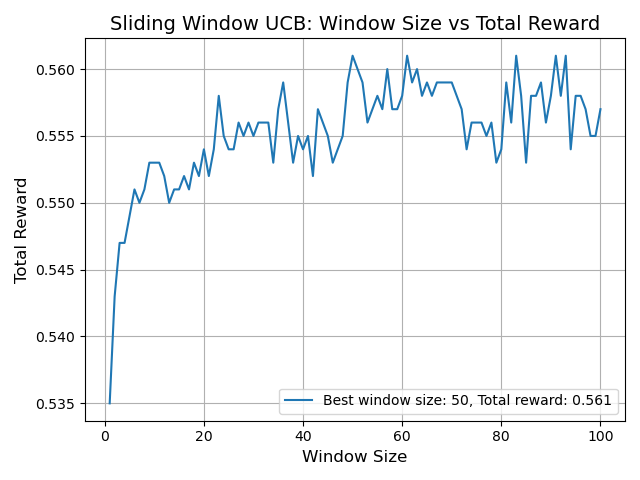
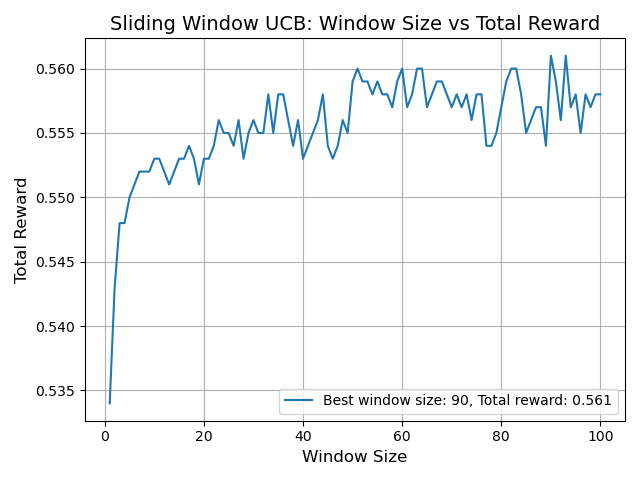
yes

diff --git a/agents.py b/agents.py
@@ -131,7 +131,6 @@ class SlidingWindowUCBAgent:
 
     def get_action(self):
         if self.counts.min == 0:
-        # action = np.random. choice(np.where(self.counts == 0) [0])
             idx = np.random.choice(np.where(self.counts == 0)[0])
             action = np.zeros(len(self.values))
             action[idx] = 1
@@ -156,64 +155,50 @@ class SlidingWindowUCBAgent:
                 self.values[i] = avg_reward
             else:
                 self.counts[i] += 0
-                # self.recent_counts[i].append(0)
+                self.recent_counts[i].append(0)
 
 class DiscountedUCBAgent:
-    def __init__(self, c=5, gamma=0.99):
+    def __init__(self, c=5, gamma=0.9):
         self.counts = None
         self.values = None
         self.c = c
         self.gamma = gamma
         self.total_time_steps = 0
-        self.rewards_history = None
 
     def initialize(self, n_actions):
         self.counts = np.zeros(n_actions)
         self.values = np.zeros(n_actions)
-        self.rewards_history = [deque() for _ in range(n_actions)]
 
+    def _calculate_discounted_counts_and_rewards(self):
+        discounted_counts = np.zeros_like(self.counts)
+        discounted_rewards = np.zeros_like(self.values)
+
+        for i in range(len(self.counts)):
+            for s in range(1, self.total_time_steps + 1):
+                discounted_counts[i] += self.gamma**(self.total_time_steps - s) if self.counts[i] >= s else 0
+                discounted_rewards[i] += self.gamma**(self.total_time_steps - s) * self.values[i] if self.counts[i] >= s else 0
+
+        return discounted_counts, discounted_rewards
 
     def get_action(self):
-        if self.counts.min == 0:
-        # action = np.random. choice(np.where(self.counts == 0) [0])
+        if self.counts.min() == 0:
             idx = np.random.choice(np.where(self.counts == 0)[0])
             action = np.zeros(len(self.values))
             action[idx] = 1
         else:
-            ucb_values = self.values + self.c * np.sqrt(2 * np.log(self.total_time_steps) / self.counts)
-            action = ucb_values
+            discounted_counts, discounted_rewards = self._calculate_discounted_counts_and_rewards()
+            discounted_means = discounted_rewards / discounted_counts
+            nt_gamma = np.sum(discounted_counts)
+            ct = 2 * np.sqrt((self.c * np.log(nt_gamma)) / discounted_counts)
+            action = discounted_means + ct
         return action
 
     def update(self, actions, state):
-        """
-        The previous implementation of the update function for D-UCB calculated
-        the discounted reward using (self.total_time_steps - self.counts[i]).
-        However, this may not be the correct way to apply the discount factor.
-        Instead, I can maintain a list of all rewards received for each action
-        and apply the discount factor based on the time steps since the reward was received.
-
-        But this does drop the performance of the agent significantly because:
-        1. Immediate rewards are more significant:  The problem could be more
-        focused on immediate rewards rather than long-term rewards.
-
-        2. Non-stationary environment: If the environment is non-stationary,
-        meaning the reward distribution changes over time, the D-UCB agent's
-        performance could suffer due to its focus on long-term rewards.
-
-        3. Exploration-exploitation balance: We can try different values of c
-        """
-
         self.total_time_steps += 1
         for i, reward in enumerate(state):
             if reward >= 0:
                 self.counts[i] += 1
-                self.rewards_history[i].append((self.total_time_steps, reward))
-
-                discounted_rewards = 0
-                for t, r in self.rewards_history[i]:
-                    discounted_rewards += r * pow(self.gamma, self.total_time_steps - t)
-
-                self.values[i] = discounted_rewards / self.counts[i]
+                self.values[i] += reward
             else:
                 self.counts[i] += 0
 

diff --git a/UCBtest.py b/UCBtest.py
@@ -7,7 +7,7 @@ from agents import SlidingWindowUCBAgent, UCBAgent, DiscountedUCBAgent
 def SWUCBExperiment():
     np.random.seed(0)
     env = ROFARS_v1()
-    max_window_size = 100
+    max_window_size = 150
     best_window_size = 1
     best_reward = -np.inf
 
@@ -15,7 +15,7 @@ def SWUCBExperiment():
     total_rewards = []
 
     # Find the best sliding window in the training session
-    for window_size in range(1, max_window_size + 1):
+    for window_size in range(100, max_window_size + 1):
         agent = SlidingWindowUCBAgent(c=3, window_size=window_size * 60)
 
         agent.initialize(env.n_camera)
@@ -34,7 +34,7 @@ def SWUCBExperiment():
                 break
 
         total_reward = env.get_total_reward()
-        print(f'=== TRAINING ===')
+        print(f'=== TRAINING === window size: {window_size}')
         print('[total reward]:', total_reward)
 
         # Save the best window size and total reward
@@ -82,7 +82,7 @@ def SWUCBExperiment():
 def DiscountedUCBExperiment():
     np.random.seed(0)
     env = ROFARS_v1()
-    min_gamma = 0.1
+    min_gamma = 0.5
     max_gamma = 1.0
     gamma_step = 0.025
     best_gamma = min_gamma
@@ -93,7 +93,7 @@ def DiscountedUCBExperiment():
 
     # Find the best gamma in the training session
     for gamma in np.arange(min_gamma, max_gamma, gamma_step):
-        agent = DiscountedUCBAgent(c=5, gamma=gamma)
+        agent = DiscountedUCBAgent(c=3, gamma=gamma)
         agent.initialize(env.n_camera)
 
         # Training loop
@@ -164,14 +164,18 @@ def SWUCBOpt(agent_type):
     elif agent_type == 3:
         print("D-UCB")
 
+
+
     np.random.seed(0)
     env = ROFARS_v1()
-    best_window_size = 50 * 60
+
 
     """TRAINING"""
     if agent_type == 1:
         agent = UCBAgent()
     elif agent_type == 2:
+        inp = int(input("Enter the window size: "))
+        best_window_size = inp * 60
         agent = SlidingWindowUCBAgent(c=3, window_size=best_window_size)
     elif agent_type == 3:
         agent = DiscountedUCBAgent(c=3, gamma=0.5)
@@ -226,7 +230,11 @@ if __name__ == '__main__':
     if inp == 1:
         SWUCBOpt(1)
     elif inp == 2:
-        SWUCBOpt(2)
+        inp2 = int(input('Find optimal window size? (1. Yes, 2. No)'))
+        if inp2 == 1:
+            SWUCBExperiment()
+        elif inp2 == 2:
+            SWUCBOpt(2)
     elif inp == 3:
         inp2 = int(input('Find optimal gamma? (1. Yes, 2. No)'))
         if inp2 == 1:

diff --git a/rofarsEnv.py b/rofarsEnv.py
@@ -1,8 +1,3 @@
-# environment for 'Resource Optimization for Facial Recognition Systems (ROFARS)' project
-# train.txt and test.txt are required
-# author: Cyril Hsu @ UvA-MNS
-# date: 23/02/2023
-
 import pandas as pd
 import numpy as np
 
@@ -45,21 +40,31 @@ class ROFARS_v1:
         return np.mean(self.rewards).round(3)
 
     def step(self, action):
-        action += np.random.rand(*action.shape) / 100
-        state = np.ones(self.n_camera) * (-1)
-        check_index = np.argsort(action)[::-1][
-                      :int(self.budget_ratio * self.n_camera)]
-        state[check_index] = np.array(
-            [self.cameras[i]['count'][self.index] for i in check_index])
+        assert len(action) == self.n_camera
+        # adding small noise to the action for randomness when all values are the same
+        action += np.random.rand(*action.shape)/100
+        # action is a vector of scores with n_camera-dimension
+        # -1 refers to the unchecked camera state
+        state = np.ones(self.n_camera)*(-1)
+        # get the index of cameras for check according to the budget
+        check_index = np.argsort(action)[::-1][:int(self.budget_ratio * self.n_camera)]
+        for i in check_index:
+            state[i] = self.cameras[i]['count'][self.index]
 
-        reward = np.sum(state[state != -1]) / self.n_camera
+        # collect number of total faces as the reward
+        reward = state[state != -1].sum()/self.n_camera
         self.rewards.append(reward)
 
-        stop = self.index == self.length - 1
+        # check if stop
+        if self.index == self.length-1:
+            stop = True
+        else:
+            stop = False
+
+        # step
         self.index += 1
 
         return reward, state, stop
-
 
 if __name__ == "__main__":
     env = ROFARS_v1()

diff --git a/plots/plot.py b/plots/plot.py
@@ -9,7 +9,7 @@ def add_text_label(ax, x, y, value, color='black', fontweight='bold', fontsize=1
 baseline_strong = 0.506
 baseline_weak = 0.317
 runs = ['SW-UCB', 'UCB1', 'D-UCB']
-test_rewards = [0.528, 0.514, 0.389]
+test_rewards = [0.524, 0.514, 0.389]
 
 # Calculate percentage growths
 growth_strong = [(reward - baseline_strong) / baseline_strong * 100 for reward in test_rewards]
